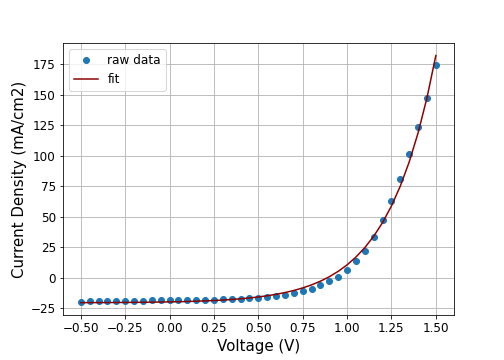
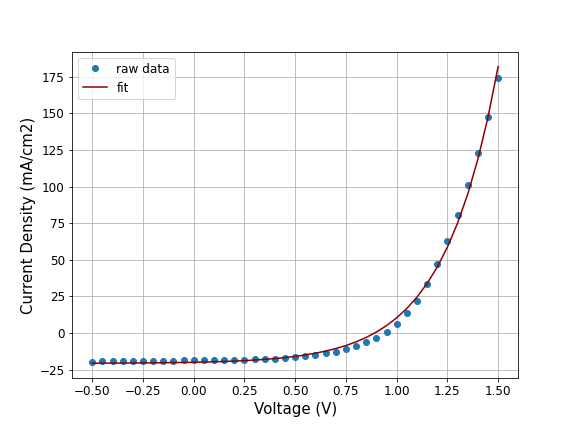
adding to readme

diff --git a/readme.md b/readme.md
@@ -2,6 +2,8 @@
 
 During my PhD I measured the current-density vs. voltage curves for a wide variety of solar cells. For this project I am trying to look at handling some of that data, fitting these data with a model, and extracting performance parameters of the cell.
 
+At the top of my example datafile there are several lines that show the calculated parameters based on a LabView program in our lab. My goal will be to fit the data myself and match my own calculated parameters to this header. 
+
 First, I tried using the ideal diode equation to fit my data:
 
 $$J(V) = J_{D} (exp(A V) - 1) - J_{sc}$$
@@ -10,4 +12,14 @@ An example of the fitted data can be seen below:
 
 ![fitted_JV](JVfit.png)
 
-As seen above, the fitted curve is less square-shaped than the raw data - meaning that the fit will underestimate the fill factor parameter of the solar cell. 
+As seen above, the fitted curve is less square-shaped than the raw data - meaning that the fit will underestimate the fill factor parameter of the solar cell. This issue will also end up under-estimating the open circuit voltage of the device as well. 
+
+The predicted parameters are as follows:
+
+![solar_characteristics]('chars.png')
+
+If I take a ratio of these values with the expected parameters from the heading of my datafile, (calculated/expected), I get the following values for the three devices:
+
+![solar_characteristics_ratios]('char_ratio.png')
+
+This shows how the model over-predicted the Jsc, but under-predicted the FF and Voc. This led to the overall efficiency to be lower than the expected value. 
